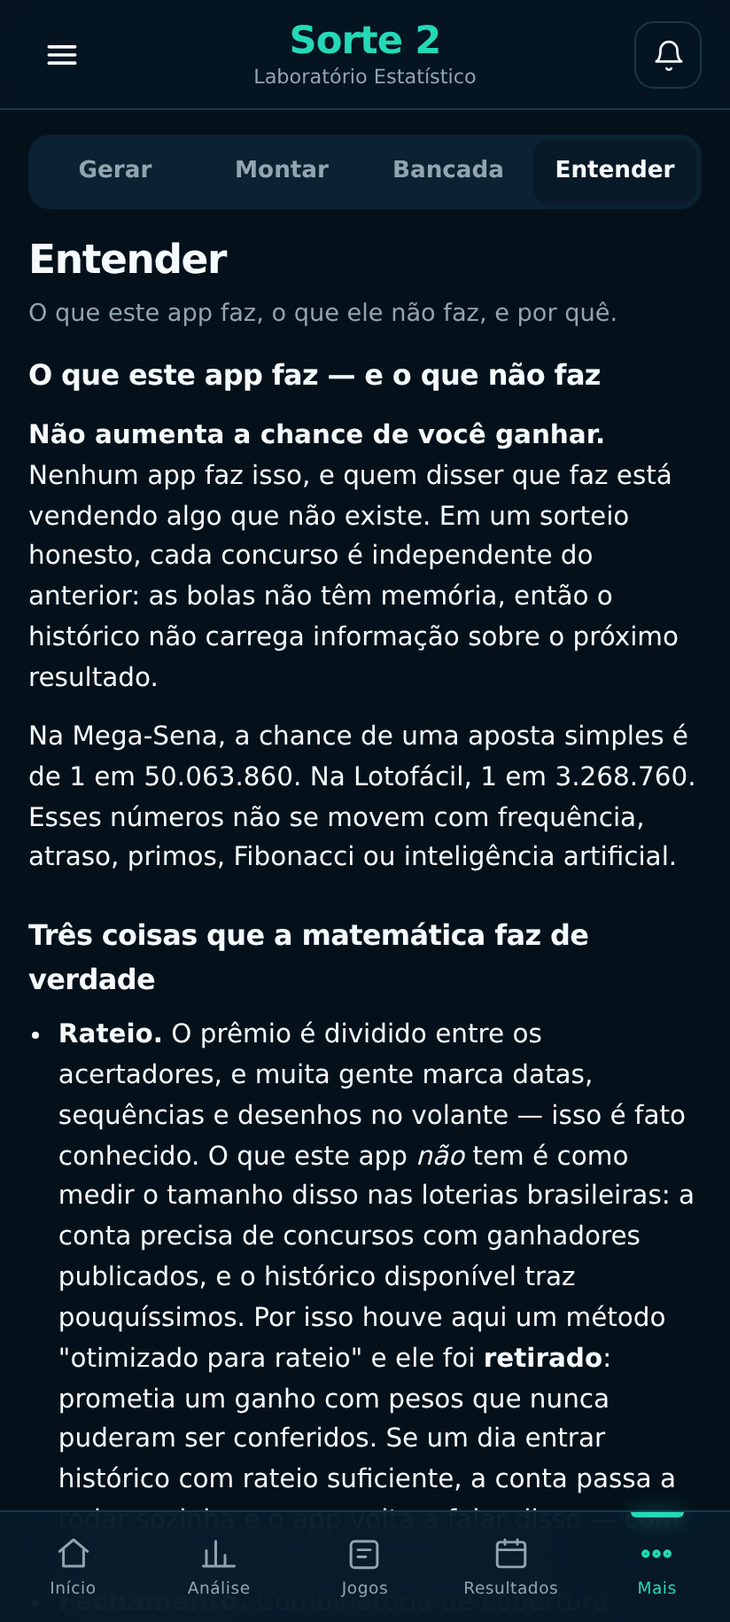
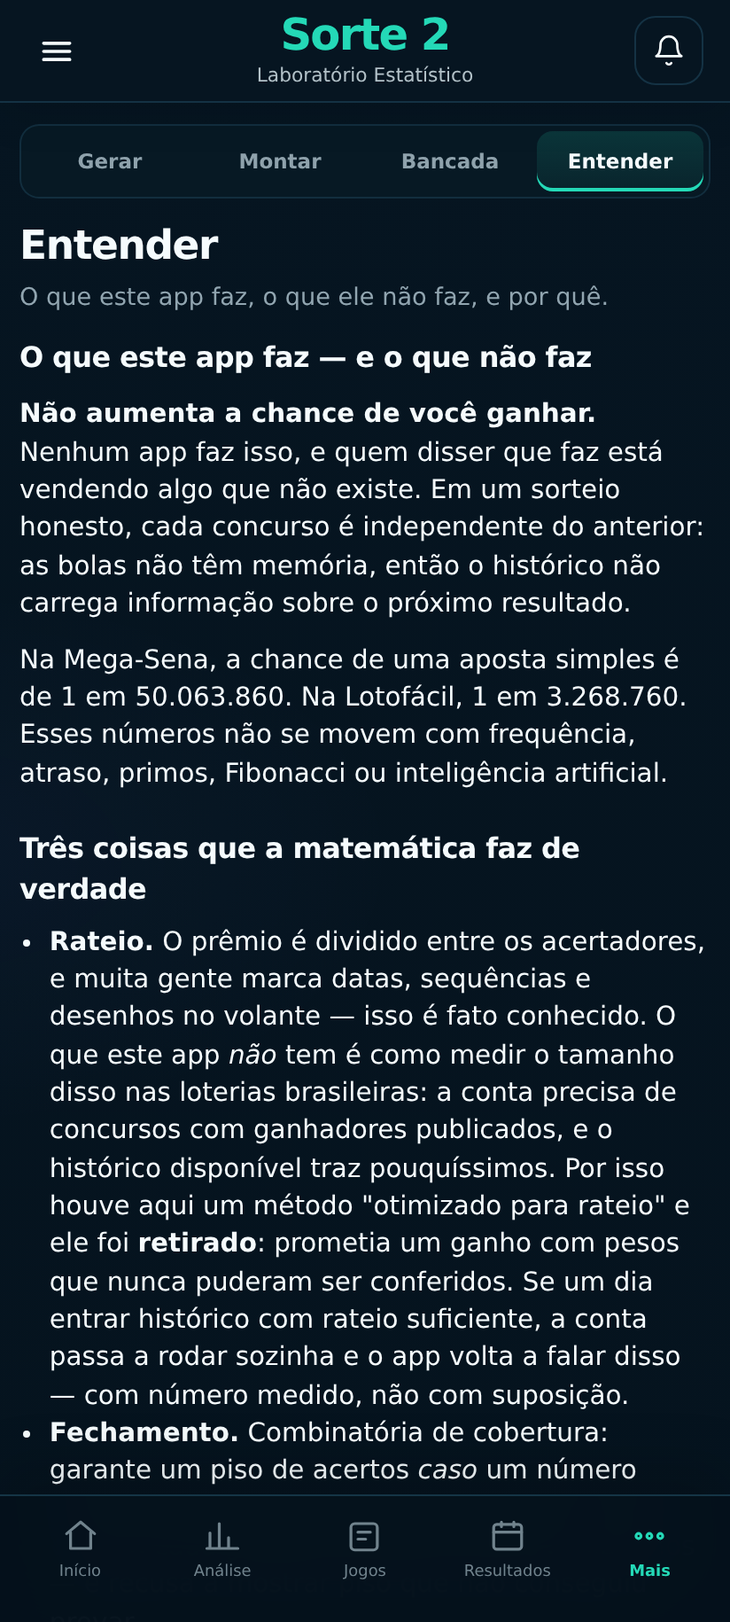
LotoLab Visual Final V3
Aplica o visual premium validado do LotoLab, preservando o motor existente. Validação pré-merge: 657 testes do motor e 77 testes de interface sem falhas.

Changed region(s): [[0.0303, 0.0, 0.9709, 0.9967]]

diff --git a/ui/sorte2-ui-final.css b/ui/sorte2-ui-final.css
@@ -1,0 +1,19 @@
+/* SORTE 2 — VISUAL FINAL V3 */
+:root{--s2-bg:#061521;--s2-bg-deep:#04111B;--s2-panel:#081A28;--s2-panel-2:#0B2232;--s2-panel-3:#0D293B;--s2-line:#17384A;--s2-line-hot:#20506A;--s2-text:#F5FBFD;--s2-muted:#91A5B0;--s2-teal:#24D9B7;--s2-teal-2:#10A98F;--s2-green:#4BD07A;--s2-amber:#F0B65D;--s2-red:#FF735F;--s2-blue:#5F7FFF;--s2-purple:#9D63FF;--s2-r:16px}
+html[data-tema="escuro"]{--fundo:var(--s2-bg)!important;--carta:var(--s2-panel)!important;--tinta:var(--s2-text)!important;--secundaria:var(--s2-muted)!important;--acaso:var(--s2-teal)!important;--acaso-fundo:var(--s2-teal-2)!important;--seu:var(--s2-amber)!important;--alerta:var(--s2-red)!important;--linha:var(--s2-line)!important;--trama:var(--s2-panel-2)!important;--ganhou:var(--s2-green)!important;--r:var(--s2-r)!important;--coluna:430px!important;--barra:72px!important;--bg:var(--s2-bg)!important;--panel:var(--s2-panel)!important;--panel2:var(--s2-panel-2)!important;--panel3:var(--s2-panel-3)!important;--line:var(--s2-line)!important;--text:var(--s2-text)!important;--muted:var(--s2-muted)!important;--teal:var(--s2-teal)!important;--teal2:var(--s2-teal-2)!important;--red:var(--s2-red)!important;--green2:var(--s2-green)!important}
+html{background:var(--s2-bg-deep)}html[data-tema="escuro"] body{min-height:100vh;background:radial-gradient(600px 300px at 102% -8%,rgba(36,217,183,.095),transparent 58%),radial-gradient(420px 240px at -10% 25%,rgba(95,127,255,.045),transparent 64%),linear-gradient(180deg,var(--s2-bg),var(--s2-bg-deep))!important;color:var(--s2-text);font-size:15px;line-height:1.45}
+html[data-tema="escuro"] header{padding:calc(var(--topo) + 8px) 12px 8px!important;background:rgba(6,21,33,.94)!important;border-bottom:1px solid rgba(23,56,74,.86)!important;backdrop-filter:blur(18px) saturate(145%);box-shadow:0 7px 24px rgba(0,0,0,.10)}.cabeca{grid-template-columns:42px 1fr 42px!important;gap:8px!important;max-width:430px!important}.menu,.sino{width:39px!important;height:39px!important;border-radius:12px!important;border-color:rgba(23,56,74,.86)!important}.marca-titulo b{font-size:1.55rem!important;font-weight:800!important;line-height:1!important;color:var(--s2-teal)!important;letter-spacing:-.035em!important}.marca-titulo span{margin-top:4px!important;color:#B2C1C8!important;font-size:.68rem!important}.sino b{top:-4px!important;right:-4px!important;background:#FF6F72!important;border:2px solid var(--s2-bg)!important}header .trilha{display:none!important}
+main{max-width:430px!important;padding:12px 11px calc(84px + var(--base))!important}.titulo{margin-bottom:11px!important}.titulo.com-volta{grid-template-columns:40px 1fr 40px!important;column-gap:3px!important;min-height:48px}.titulo.com-volta h1{font-size:1.20rem!important;font-weight:760!important}.titulo.com-volta p{font-size:.73rem!important;color:#B1C0C7!important;margin-top:2px!important}.voltar,.acao-tela{width:38px!important;height:38px!important;border-radius:11px!important;background:transparent!important}.voltar{border:0!important}.acao-tela{border:1px solid var(--s2-line)!important}
+nav{left:50%!important;right:auto!important;transform:translateX(-50%)!important;width:min(430px,100vw)!important;height:calc(72px + var(--base))!important;padding:7px 5px var(--base)!important;background:rgba(4,17,27,.965)!important;border-top:1px solid rgba(23,56,74,.92)!important;backdrop-filter:blur(18px) saturate(145%);box-shadow:0 -14px 34px rgba(0,0,0,.16)}nav button{padding:5px 0 6px!important;gap:4px!important;color:#71838D!important;font-size:.56rem!important;font-weight:540!important;letter-spacing:0!important}nav button svg{width:21px!important;height:21px!important;stroke-width:1.85!important}nav button[aria-current="page"]{color:var(--s2-teal)!important;font-weight:650!important}nav button[aria-current="page"]::before{display:none!important}
+.carta,.panel,.mini-card,.draw-card,.activity-item,.kpi,.ficha,.item{border-color:rgba(23,56,74,.92)!important}.carta,.panel,.kpi,.ficha{background:linear-gradient(180deg,rgba(10,32,48,.96),rgba(7,24,35,.98))!important;border-radius:var(--s2-r)!important;box-shadow:0 8px 28px rgba(0,0,0,.10)!important}.carta{padding:14px!important;margin-bottom:10px!important}.panel{padding:14px!important;margin-bottom:11px!important}.panel-title{margin-bottom:10px!important}.panel-title h3{font-size:.91rem!important;font-weight:700!important}.panel-title span{font-size:.68rem!important;color:var(--s2-muted)!important}
+.hero-card{min-height:136px!important;padding:17px!important;grid-template-columns:minmax(0,1fr) 116px!important;gap:10px!important;margin-bottom:12px!important;position:relative;overflow:hidden;background:radial-gradient(180px 150px at 84% 46%,rgba(36,217,183,.11),transparent 68%),linear-gradient(145deg,#081A28 0%,#071824 56%,#08202A 100%)!important;border:1px solid #17465A!important;border-radius:17px!important;box-shadow:0 10px 34px rgba(0,0,0,.13)!important}.hero-card h2{font-size:1.08rem!important;font-weight:780!important;color:var(--s2-text)!important}.hero-card p{margin:6px 0 15px!important;font-size:.71rem!important;color:#B1C1C8!important}.hero-card .primary-btn,.primary-btn{min-height:37px!important;padding:0 16px!important;border-radius:9px!important;border:1px solid rgba(36,217,183,.5)!important;background:linear-gradient(180deg,#0D8F7B,#08715F)!important;color:#F4FFFC!important;font-size:.69rem!important;font-weight:800!important}.brain{height:112px!important;background:radial-gradient(circle at 50% 49%,rgba(36,217,183,.12),transparent 60%),url("brain-network.svg") center/104px 104px no-repeat!important;opacity:.98;filter:drop-shadow(0 0 12px rgba(36,217,183,.17))}.brain::before,.brain::after{display:none!important}
+.quick-grid{gap:9px!important;margin-bottom:12px!important}.quick{min-height:112px!important;padding:12px 10px!important;border-radius:16px!important;background:linear-gradient(180deg,#0B2232,#071925)!important;box-shadow:0 7px 25px rgba(0,0,0,.08)}.quick-icon{width:39px!important;height:39px!important;border-radius:13px!important}.quick-icon svg{width:21px!important;height:21px!important}.quick b{font-size:.78rem!important;font-weight:700!important}.quick small{font-size:.59rem!important}.quick:nth-child(1){border-color:rgba(36,217,183,.32)!important}.quick:nth-child(2){border-color:rgba(95,127,255,.34)!important}.quick:nth-child(3){border-color:rgba(157,99,255,.34)!important}.atalhos{gap:9px!important;margin-top:10px!important}.atalho{min-height:108px!important;border-radius:16px!important;background:linear-gradient(180deg,#0B2232,#071925)!important}
+.kpi-grid,.resumo{gap:9px!important}.mini-card,.resumo .kpi{min-height:82px;padding:12px 9px!important;border-radius:13px!important;background:linear-gradient(180deg,#0A2232,#071A27)!important;box-shadow:none!important}.mini-card strong,.resumo .kpi .val{font-size:1.35rem!important;font-weight:690!important;color:var(--s2-text);line-height:1.15}.mini-card strong.teal,.resumo .kpi:nth-child(3) .val{color:var(--s2-teal)!important}.mini-card strong.red{color:var(--s2-red)!important}.mini-card small,.resumo .kpi .sub{color:#A4B5BD!important;font-size:.60rem!important}
+.segmento,.tabs{border:1px solid rgba(23,56,74,.7)!important;background:#071924!important;border-radius:11px!important;padding:3px!important;gap:2px!important;margin-bottom:11px!important}.segmento button,.tabs button{min-height:34px;border:0!important;background:transparent!important;color:#8FA2AC!important;border-radius:9px!important;padding:7px 6px!important;font-size:.72rem!important;font-weight:570!important}.segmento button[aria-selected="true"],.tabs button.active{color:var(--s2-text)!important;background:linear-gradient(180deg,rgba(36,217,183,.15),rgba(36,217,183,.055))!important;box-shadow:inset 0 -2px 0 var(--s2-teal)!important}
+.pq-hero{padding:15px!important;gap:12px!important;border-radius:16px!important;background:radial-gradient(180px 120px at 88% 25%,rgba(36,217,183,.10),transparent 70%),linear-gradient(145deg,#081A28,#071A27)!important;border-color:#17465A!important}.pq-hero h2{font-size:1.16rem!important;font-weight:740!important}.pq-hero p{font-size:.72rem!important;color:#A9BAC1!important}.pq-selo{padding:4px 8px!important;font-size:.52rem!important;color:var(--s2-teal)!important;background:rgba(36,217,183,.08)!important;border:1px solid rgba(36,217,183,.22)}.pq-orbe{width:58px!important;height:58px!important;background:radial-gradient(circle at 35% 30%,#7EF7E2,var(--s2-teal) 35%,#0A7165 100%)!important}.geracao-linha{gap:13px!important;align-items:center!important}.geracao-linha>svg{width:112px!important;height:112px!important;flex:0 0 112px}.funil{gap:8px!important}.funil div{min-height:32px;padding-bottom:6px;border-bottom:1px solid rgba(23,56,74,.72)}.funil div:last-child{border-bottom:0}.funil span{font-size:.68rem!important;color:#A2B3BB!important}.funil b{font-size:1.04rem!important}.funil div:last-child b{color:var(--s2-red)!important}.metric,.kpi{border-radius:13px!important;background:linear-gradient(180deg,#0A2030,#081B29)!important;box-shadow:none!important}.metric{padding:11px!important}.metric span,.kpi .rot{font-size:.57rem!important;color:#A1B2BA!important}.metric b,.kpi .val{font-size:1.36rem!important;color:var(--s2-teal)!important}.metric small,.kpi .sub{font-size:.57rem!important;color:#9BACB4!important}.info-box,.nota{border-radius:11px!important;background:#092333!important;border:1px solid #174057!important;color:#A7B8C0!important}.nota{border-left:3px solid var(--s2-teal)!important}.nota.atencao{border-left-color:var(--s2-red)!important}
+.chart-card,.pq-grafico{background:linear-gradient(180deg,#081A28,#071925)!important;border-radius:16px!important}.grid,.grade-grafico{stroke:#123143!important}.baseline,.linha-acaso{stroke:#899CA6!important;stroke-dasharray:5 5!important}.curve,.linha-evolucao{stroke:var(--s2-teal)!important}.dot,.ponto-evolucao{fill:var(--s2-teal)!important}.gen-row,.linha-geracao{border-radius:11px!important;border-color:rgba(23,56,74,.92)!important;background:#081B29!important}.good-banner{border-color:rgba(36,217,183,.34)!important;background:rgba(0,137,91,.18)!important;color:#7BE8D0!important}
+.summary-row{grid-template-columns:1.15fr .85fr .85fr .85fr!important;gap:7px!important}.sum-card{border-radius:11px!important;background:#0A2232!important;border-color:rgba(23,56,74,.9)!important}.big-action{border-radius:13px!important;background:linear-gradient(180deg,#0D8C78,#086453)!important;border-color:rgba(36,217,183,.28)!important}.conferencias .linha-conf,.linha-conf{border-bottom-color:rgba(23,56,74,.75)!important}
+.mode-tabs{gap:6px!important;margin-bottom:10px!important}.mode-tabs button{min-height:36px;border-radius:10px!important;background:#081B29!important;border-color:rgba(23,56,74,.92)!important;color:#90A3AD!important;font-size:.68rem!important}.mode-tabs .active,.mode-tabs button[aria-pressed="true"]{color:var(--s2-text)!important;border-color:var(--s2-teal)!important;background:rgba(36,217,183,.095)!important}.bolas{gap:6px!important;margin-top:9px!important}.bola{width:31px!important;height:31px!important;border:0!important;color:#F3FFF5!important;background:linear-gradient(180deg,#4BB658,#268F3E)!important;font-size:.70rem!important;font-weight:780!important}.selo-ganho{border-radius:99px!important;padding:3px 8px!important;font-size:.57rem!important}
+.folha .corpo{width:min(430px,100vw)!important;max-height:min(92vh,900px)!important;background:var(--s2-bg)!important;border-color:var(--s2-line)!important}#corpo-avisos h2{color:var(--s2-text)!important;font-size:1.22rem!important;text-transform:none!important;letter-spacing:-.02em!important;font-weight:760!important}.chips{gap:4px!important}.chip{min-height:35px;padding:7px 10px!important;border-radius:9px!important;border-color:transparent!important;background:transparent!important;color:#95A7B0!important;font-size:.66rem!important}.chip[aria-pressed="true"]{color:var(--s2-text)!important;border:1px solid var(--s2-teal)!important;background:rgba(36,217,183,.095)!important}.dia-rotulo{background:var(--s2-bg)!important;color:#C9D4D8!important}.lista .item,.item{border:1px solid rgba(23,56,74,.92)!important;border-radius:13px!important;background:linear-gradient(180deg,#081B29,#071823)!important;margin-bottom:7px!important}.ic-aviso{width:40px!important;height:40px!important;border-radius:12px!important}.item .txt b{font-size:.73rem!important}.item .txt span{font-size:.63rem!important;color:#A0B1B8!important}.item .quando{font-size:.57rem!important}.ponto-lido.novo{background:var(--s2-teal)!important}
+select,input[type=number],input[type=text],input[type=date]{min-height:42px;padding:10px 11px!important;color:var(--s2-text);background:#071A27!important;border-color:rgba(23,56,74,.92)!important;border-radius:11px!important}.ajustes summary{background:#081B29!important;border-color:rgba(23,56,74,.88)!important}.gaveta .corpo{background:linear-gradient(180deg,#071824,#05131D)!important;border-right:1px solid var(--s2-line)!important}.gaveta-mods button{background:#081B29!important;border-color:rgba(23,56,74,.85)!important}.gaveta-mods button[aria-pressed="true"]{color:var(--s2-text)!important;background:rgba(36,217,183,.09)!important;border-color:rgba(36,217,183,.40)!important}
+@media(max-width:390px){.hero-card{grid-template-columns:minmax(0,1fr) 96px!important;padding:15px!important}.brain{height:96px!important;background-size:92px 92px!important}.quick-grid{gap:7px!important}.quick{min-height:104px!important;padding:11px 8px!important}.quick b{font-size:.72rem!important}.quick small{font-size:.55rem!important}.geracao-linha>svg{width:100px!important;height:100px!important;flex-basis:100px}.summary-row{gap:5px!important}.sum-card{padding:9px 5px!important}}@media(max-width:360px){.marca-titulo b{font-size:1.40rem!important}.hero-card h2{font-size:1rem!important}.hero-card p{font-size:.66rem!important}.mini-card strong{font-size:1.20rem!important}}

diff --git a/www/ui/sorte2-ui-final.css b/www/ui/sorte2-ui-final.css
@@ -1,0 +1,19 @@
+/* SORTE 2 — VISUAL FINAL V3 */
+:root{--s2-bg:#061521;--s2-bg-deep:#04111B;--s2-panel:#081A28;--s2-panel-2:#0B2232;--s2-panel-3:#0D293B;--s2-line:#17384A;--s2-line-hot:#20506A;--s2-text:#F5FBFD;--s2-muted:#91A5B0;--s2-teal:#24D9B7;--s2-teal-2:#10A98F;--s2-green:#4BD07A;--s2-amber:#F0B65D;--s2-red:#FF735F;--s2-blue:#5F7FFF;--s2-purple:#9D63FF;--s2-r:16px}
+html[data-tema="escuro"]{--fundo:var(--s2-bg)!important;--carta:var(--s2-panel)!important;--tinta:var(--s2-text)!important;--secundaria:var(--s2-muted)!important;--acaso:var(--s2-teal)!important;--acaso-fundo:var(--s2-teal-2)!important;--seu:var(--s2-amber)!important;--alerta:var(--s2-red)!important;--linha:var(--s2-line)!important;--trama:var(--s2-panel-2)!important;--ganhou:var(--s2-green)!important;--r:var(--s2-r)!important;--coluna:430px!important;--barra:72px!important;--bg:var(--s2-bg)!important;--panel:var(--s2-panel)!important;--panel2:var(--s2-panel-2)!important;--panel3:var(--s2-panel-3)!important;--line:var(--s2-line)!important;--text:var(--s2-text)!important;--muted:var(--s2-muted)!important;--teal:var(--s2-teal)!important;--teal2:var(--s2-teal-2)!important;--red:var(--s2-red)!important;--green2:var(--s2-green)!important}
+html{background:var(--s2-bg-deep)}html[data-tema="escuro"] body{min-height:100vh;background:radial-gradient(600px 300px at 102% -8%,rgba(36,217,183,.095),transparent 58%),radial-gradient(420px 240px at -10% 25%,rgba(95,127,255,.045),transparent 64%),linear-gradient(180deg,var(--s2-bg),var(--s2-bg-deep))!important;color:var(--s2-text);font-size:15px;line-height:1.45}
+html[data-tema="escuro"] header{padding:calc(var(--topo) + 8px) 12px 8px!important;background:rgba(6,21,33,.94)!important;border-bottom:1px solid rgba(23,56,74,.86)!important;backdrop-filter:blur(18px) saturate(145%);box-shadow:0 7px 24px rgba(0,0,0,.10)}.cabeca{grid-template-columns:42px 1fr 42px!important;gap:8px!important;max-width:430px!important}.menu,.sino{width:39px!important;height:39px!important;border-radius:12px!important;border-color:rgba(23,56,74,.86)!important}.marca-titulo b{font-size:1.55rem!important;font-weight:800!important;line-height:1!important;color:var(--s2-teal)!important;letter-spacing:-.035em!important}.marca-titulo span{margin-top:4px!important;color:#B2C1C8!important;font-size:.68rem!important}.sino b{top:-4px!important;right:-4px!important;background:#FF6F72!important;border:2px solid var(--s2-bg)!important}header .trilha{display:none!important}
+main{max-width:430px!important;padding:12px 11px calc(84px + var(--base))!important}.titulo{margin-bottom:11px!important}.titulo.com-volta{grid-template-columns:40px 1fr 40px!important;column-gap:3px!important;min-height:48px}.titulo.com-volta h1{font-size:1.20rem!important;font-weight:760!important}.titulo.com-volta p{font-size:.73rem!important;color:#B1C0C7!important;margin-top:2px!important}.voltar,.acao-tela{width:38px!important;height:38px!important;border-radius:11px!important;background:transparent!important}.voltar{border:0!important}.acao-tela{border:1px solid var(--s2-line)!important}
+nav{left:50%!important;right:auto!important;transform:translateX(-50%)!important;width:min(430px,100vw)!important;height:calc(72px + var(--base))!important;padding:7px 5px var(--base)!important;background:rgba(4,17,27,.965)!important;border-top:1px solid rgba(23,56,74,.92)!important;backdrop-filter:blur(18px) saturate(145%);box-shadow:0 -14px 34px rgba(0,0,0,.16)}nav button{padding:5px 0 6px!important;gap:4px!important;color:#71838D!important;font-size:.56rem!important;font-weight:540!important;letter-spacing:0!important}nav button svg{width:21px!important;height:21px!important;stroke-width:1.85!important}nav button[aria-current="page"]{color:var(--s2-teal)!important;font-weight:650!important}nav button[aria-current="page"]::before{display:none!important}
+.carta,.panel,.mini-card,.draw-card,.activity-item,.kpi,.ficha,.item{border-color:rgba(23,56,74,.92)!important}.carta,.panel,.kpi,.ficha{background:linear-gradient(180deg,rgba(10,32,48,.96),rgba(7,24,35,.98))!important;border-radius:var(--s2-r)!important;box-shadow:0 8px 28px rgba(0,0,0,.10)!important}.carta{padding:14px!important;margin-bottom:10px!important}.panel{padding:14px!important;margin-bottom:11px!important}.panel-title{margin-bottom:10px!important}.panel-title h3{font-size:.91rem!important;font-weight:700!important}.panel-title span{font-size:.68rem!important;color:var(--s2-muted)!important}
+.hero-card{min-height:136px!important;padding:17px!important;grid-template-columns:minmax(0,1fr) 116px!important;gap:10px!important;margin-bottom:12px!important;position:relative;overflow:hidden;background:radial-gradient(180px 150px at 84% 46%,rgba(36,217,183,.11),transparent 68%),linear-gradient(145deg,#081A28 0%,#071824 56%,#08202A 100%)!important;border:1px solid #17465A!important;border-radius:17px!important;box-shadow:0 10px 34px rgba(0,0,0,.13)!important}.hero-card h2{font-size:1.08rem!important;font-weight:780!important;color:var(--s2-text)!important}.hero-card p{margin:6px 0 15px!important;font-size:.71rem!important;color:#B1C1C8!important}.hero-card .primary-btn,.primary-btn{min-height:37px!important;padding:0 16px!important;border-radius:9px!important;border:1px solid rgba(36,217,183,.5)!important;background:linear-gradient(180deg,#0D8F7B,#08715F)!important;color:#F4FFFC!important;font-size:.69rem!important;font-weight:800!important}.brain{height:112px!important;background:radial-gradient(circle at 50% 49%,rgba(36,217,183,.12),transparent 60%),url("brain-network.svg") center/104px 104px no-repeat!important;opacity:.98;filter:drop-shadow(0 0 12px rgba(36,217,183,.17))}.brain::before,.brain::after{display:none!important}
+.quick-grid{gap:9px!important;margin-bottom:12px!important}.quick{min-height:112px!important;padding:12px 10px!important;border-radius:16px!important;background:linear-gradient(180deg,#0B2232,#071925)!important;box-shadow:0 7px 25px rgba(0,0,0,.08)}.quick-icon{width:39px!important;height:39px!important;border-radius:13px!important}.quick-icon svg{width:21px!important;height:21px!important}.quick b{font-size:.78rem!important;font-weight:700!important}.quick small{font-size:.59rem!important}.quick:nth-child(1){border-color:rgba(36,217,183,.32)!important}.quick:nth-child(2){border-color:rgba(95,127,255,.34)!important}.quick:nth-child(3){border-color:rgba(157,99,255,.34)!important}.atalhos{gap:9px!important;margin-top:10px!important}.atalho{min-height:108px!important;border-radius:16px!important;background:linear-gradient(180deg,#0B2232,#071925)!important}
+.kpi-grid,.resumo{gap:9px!important}.mini-card,.resumo .kpi{min-height:82px;padding:12px 9px!important;border-radius:13px!important;background:linear-gradient(180deg,#0A2232,#071A27)!important;box-shadow:none!important}.mini-card strong,.resumo .kpi .val{font-size:1.35rem!important;font-weight:690!important;color:var(--s2-text);line-height:1.15}.mini-card strong.teal,.resumo .kpi:nth-child(3) .val{color:var(--s2-teal)!important}.mini-card strong.red{color:var(--s2-red)!important}.mini-card small,.resumo .kpi .sub{color:#A4B5BD!important;font-size:.60rem!important}
+.segmento,.tabs{border:1px solid rgba(23,56,74,.7)!important;background:#071924!important;border-radius:11px!important;padding:3px!important;gap:2px!important;margin-bottom:11px!important}.segmento button,.tabs button{min-height:34px;border:0!important;background:transparent!important;color:#8FA2AC!important;border-radius:9px!important;padding:7px 6px!important;font-size:.72rem!important;font-weight:570!important}.segmento button[aria-selected="true"],.tabs button.active{color:var(--s2-text)!important;background:linear-gradient(180deg,rgba(36,217,183,.15),rgba(36,217,183,.055))!important;box-shadow:inset 0 -2px 0 var(--s2-teal)!important}
+.pq-hero{padding:15px!important;gap:12px!important;border-radius:16px!important;background:radial-gradient(180px 120px at 88% 25%,rgba(36,217,183,.10),transparent 70%),linear-gradient(145deg,#081A28,#071A27)!important;border-color:#17465A!important}.pq-hero h2{font-size:1.16rem!important;font-weight:740!important}.pq-hero p{font-size:.72rem!important;color:#A9BAC1!important}.pq-selo{padding:4px 8px!important;font-size:.52rem!important;color:var(--s2-teal)!important;background:rgba(36,217,183,.08)!important;border:1px solid rgba(36,217,183,.22)}.pq-orbe{width:58px!important;height:58px!important;background:radial-gradient(circle at 35% 30%,#7EF7E2,var(--s2-teal) 35%,#0A7165 100%)!important}.geracao-linha{gap:13px!important;align-items:center!important}.geracao-linha>svg{width:112px!important;height:112px!important;flex:0 0 112px}.funil{gap:8px!important}.funil div{min-height:32px;padding-bottom:6px;border-bottom:1px solid rgba(23,56,74,.72)}.funil div:last-child{border-bottom:0}.funil span{font-size:.68rem!important;color:#A2B3BB!important}.funil b{font-size:1.04rem!important}.funil div:last-child b{color:var(--s2-red)!important}.metric,.kpi{border-radius:13px!important;background:linear-gradient(180deg,#0A2030,#081B29)!important;box-shadow:none!important}.metric{padding:11px!important}.metric span,.kpi .rot{font-size:.57rem!important;color:#A1B2BA!important}.metric b,.kpi .val{font-size:1.36rem!important;color:var(--s2-teal)!important}.metric small,.kpi .sub{font-size:.57rem!important;color:#9BACB4!important}.info-box,.nota{border-radius:11px!important;background:#092333!important;border:1px solid #174057!important;color:#A7B8C0!important}.nota{border-left:3px solid var(--s2-teal)!important}.nota.atencao{border-left-color:var(--s2-red)!important}
+.chart-card,.pq-grafico{background:linear-gradient(180deg,#081A28,#071925)!important;border-radius:16px!important}.grid,.grade-grafico{stroke:#123143!important}.baseline,.linha-acaso{stroke:#899CA6!important;stroke-dasharray:5 5!important}.curve,.linha-evolucao{stroke:var(--s2-teal)!important}.dot,.ponto-evolucao{fill:var(--s2-teal)!important}.gen-row,.linha-geracao{border-radius:11px!important;border-color:rgba(23,56,74,.92)!important;background:#081B29!important}.good-banner{border-color:rgba(36,217,183,.34)!important;background:rgba(0,137,91,.18)!important;color:#7BE8D0!important}
+.summary-row{grid-template-columns:1.15fr .85fr .85fr .85fr!important;gap:7px!important}.sum-card{border-radius:11px!important;background:#0A2232!important;border-color:rgba(23,56,74,.9)!important}.big-action{border-radius:13px!important;background:linear-gradient(180deg,#0D8C78,#086453)!important;border-color:rgba(36,217,183,.28)!important}.conferencias .linha-conf,.linha-conf{border-bottom-color:rgba(23,56,74,.75)!important}
+.mode-tabs{gap:6px!important;margin-bottom:10px!important}.mode-tabs button{min-height:36px;border-radius:10px!important;background:#081B29!important;border-color:rgba(23,56,74,.92)!important;color:#90A3AD!important;font-size:.68rem!important}.mode-tabs .active,.mode-tabs button[aria-pressed="true"]{color:var(--s2-text)!important;border-color:var(--s2-teal)!important;background:rgba(36,217,183,.095)!important}.bolas{gap:6px!important;margin-top:9px!important}.bola{width:31px!important;height:31px!important;border:0!important;color:#F3FFF5!important;background:linear-gradient(180deg,#4BB658,#268F3E)!important;font-size:.70rem!important;font-weight:780!important}.selo-ganho{border-radius:99px!important;padding:3px 8px!important;font-size:.57rem!important}
+.folha .corpo{width:min(430px,100vw)!important;max-height:min(92vh,900px)!important;background:var(--s2-bg)!important;border-color:var(--s2-line)!important}#corpo-avisos h2{color:var(--s2-text)!important;font-size:1.22rem!important;text-transform:none!important;letter-spacing:-.02em!important;font-weight:760!important}.chips{gap:4px!important}.chip{min-height:35px;padding:7px 10px!important;border-radius:9px!important;border-color:transparent!important;background:transparent!important;color:#95A7B0!important;font-size:.66rem!important}.chip[aria-pressed="true"]{color:var(--s2-text)!important;border:1px solid var(--s2-teal)!important;background:rgba(36,217,183,.095)!important}.dia-rotulo{background:var(--s2-bg)!important;color:#C9D4D8!important}.lista .item,.item{border:1px solid rgba(23,56,74,.92)!important;border-radius:13px!important;background:linear-gradient(180deg,#081B29,#071823)!important;margin-bottom:7px!important}.ic-aviso{width:40px!important;height:40px!important;border-radius:12px!important}.item .txt b{font-size:.73rem!important}.item .txt span{font-size:.63rem!important;color:#A0B1B8!important}.item .quando{font-size:.57rem!important}.ponto-lido.novo{background:var(--s2-teal)!important}
+select,input[type=number],input[type=text],input[type=date]{min-height:42px;padding:10px 11px!important;color:var(--s2-text);background:#071A27!important;border-color:rgba(23,56,74,.92)!important;border-radius:11px!important}.ajustes summary{background:#081B29!important;border-color:rgba(23,56,74,.88)!important}.gaveta .corpo{background:linear-gradient(180deg,#071824,#05131D)!important;border-right:1px solid var(--s2-line)!important}.gaveta-mods button{background:#081B29!important;border-color:rgba(23,56,74,.85)!important}.gaveta-mods button[aria-pressed="true"]{color:var(--s2-text)!important;background:rgba(36,217,183,.09)!important;border-color:rgba(36,217,183,.40)!important}
+@media(max-width:390px){.hero-card{grid-template-columns:minmax(0,1fr) 96px!important;padding:15px!important}.brain{height:96px!important;background-size:92px 92px!important}.quick-grid{gap:7px!important}.quick{min-height:104px!important;padding:11px 8px!important}.quick b{font-size:.72rem!important}.quick small{font-size:.55rem!important}.geracao-linha>svg{width:100px!important;height:100px!important;flex-basis:100px}.summary-row{gap:5px!important}.sum-card{padding:9px 5px!important}}@media(max-width:360px){.marca-titulo b{font-size:1.40rem!important}.hero-card h2{font-size:1rem!important}.hero-card p{font-size:.66rem!important}.mini-card strong{font-size:1.20rem!important}}

diff --git a/index.html b/index.html
@@ -1,16 +1,16 @@
 <!DOCTYPE html>
-<html lang="pt-BR" data-tema="claro">
+<html lang="pt-BR" data-tema="escuro">
 <head>
 <meta charset="utf-8">
 <meta name="viewport" content="width=device-width, initial-scale=1, viewport-fit=cover">
-<meta name="theme-color" content="#061522">
+<meta name="theme-color" content="#061521">
 <meta name="description" content="Gerador e conferidor de jogos das loterias brasileiras, com comparação honesta contra o acaso.">
 <link rel="manifest" href="manifest.webmanifest">
 <link rel="icon" href="icone.svg" type="image/svg+xml">
 <!-- apple-touch-icon não aceita SVG: o iOS ignora e fica sem ícone na tela de
      início. Aqui vai o PNG, gerado do mesmo icone.svg. -->
 <link rel="apple-touch-icon" href="icone-192.png">
-<title>LotoLab — jogos e conferência</title>
+<title>LotoLab — Laboratório Estatístico</title>
 <style>
 /* ------------------------------------------------------------------
    Direção visual: ficha de conferência, não cassino.
@@ -928,6 +928,7 @@ td{padding:6px 7px;border-bottom:1px solid var(--trama)}
   @keyframes sobe{from{opacity:0;transform:translateY(7px)}to{opacity:1;transform:none}}
 }
 </style>
+<link rel="stylesheet" href="ui/sorte2-ui-final.css?v=3.0.0" data-sorte2-visual-final="3.0.0">
 </head>
 <body>
 <header>

diff --git a/www/index.html b/www/index.html
@@ -1,16 +1,16 @@
 <!DOCTYPE html>
-<html lang="pt-BR" data-tema="claro">
+<html lang="pt-BR" data-tema="escuro">
 <head>
 <meta charset="utf-8">
 <meta name="viewport" content="width=device-width, initial-scale=1, viewport-fit=cover">
-<meta name="theme-color" content="#061522">
+<meta name="theme-color" content="#061521">
 <meta name="description" content="Gerador e conferidor de jogos das loterias brasileiras, com comparação honesta contra o acaso.">
 <link rel="manifest" href="manifest.webmanifest">
 <link rel="icon" href="icone.svg" type="image/svg+xml">
 <!-- apple-touch-icon não aceita SVG: o iOS ignora e fica sem ícone na tela de
      início. Aqui vai o PNG, gerado do mesmo icone.svg. -->
 <link rel="apple-touch-icon" href="icone-192.png">
-<title>LotoLab — jogos e conferência</title>
+<title>LotoLab — Laboratório Estatístico</title>
 <style>
 /* ------------------------------------------------------------------
    Direção visual: ficha de conferência, não cassino.
@@ -928,6 +928,7 @@ td{padding:6px 7px;border-bottom:1px solid var(--trama)}
   @keyframes sobe{from{opacity:0;transform:translateY(7px)}to{opacity:1;transform:none}}
 }
 </style>
+<link rel="stylesheet" href="ui/sorte2-ui-final.css?v=3.0.0" data-sorte2-visual-final="3.0.0">
 </head>
 <body>
 <header>

diff --git a/ui/sorte2-ui-final.js b/ui/sorte2-ui-final.js
@@ -1,0 +1,2 @@
+/* Sorte 2 Visual Final V3 — presentation hooks only */
+(()=>{"use strict";let scheduled=false;const apply=()=>{scheduled=false;document.body?.classList.add("sorte2-visual-final-v3");const theme=document.querySelector('meta[name="theme-color"]');if(theme&&theme.getAttribute("content")!=="#061521")theme.setAttribute("content","#061521");const title=document.querySelector(".marca-titulo b");const sub=document.querySelector(".marca-titulo span");if(title&&title.textContent!=="Sorte 2")title.textContent="Sorte 2";if(sub&&sub.textContent!=="Laboratório Estatístico")sub.textContent="Laboratório Estatístico";const h=document.querySelector("#corpo-avisos h2");if(h&&h.textContent.trim().toLowerCase()==="atividades"&&h.textContent!=="Atividades")h.textContent="Atividades"};const schedule=()=>{if(scheduled)return;scheduled=true;requestAnimationFrame(apply)};if(document.readyState==="loading")document.addEventListener("DOMContentLoaded",apply,{once:true});else apply();window.addEventListener("load",()=>{if(!document.body)return;new MutationObserver(schedule).observe(document.body,{childList:true,subtree:true})},{once:true})})();

diff --git a/www/ui/sorte2-ui-final.js b/www/ui/sorte2-ui-final.js
@@ -1,0 +1,2 @@
+/* Sorte 2 Visual Final V3 — presentation hooks only */
+(()=>{"use strict";let scheduled=false;const apply=()=>{scheduled=false;document.body?.classList.add("sorte2-visual-final-v3");const theme=document.querySelector('meta[name="theme-color"]');if(theme&&theme.getAttribute("content")!=="#061521")theme.setAttribute("content","#061521");const title=document.querySelector(".marca-titulo b");const sub=document.querySelector(".marca-titulo span");if(title&&title.textContent!=="Sorte 2")title.textContent="Sorte 2";if(sub&&sub.textContent!=="Laboratório Estatístico")sub.textContent="Laboratório Estatístico";const h=document.querySelector("#corpo-avisos h2");if(h&&h.textContent.trim().toLowerCase()==="atividades"&&h.textContent!=="Atividades")h.textContent="Atividades"};const schedule=()=>{if(scheduled)return;scheduled=true;requestAnimationFrame(apply)};if(document.readyState==="loading")document.addEventListener("DOMContentLoaded",apply,{once:true});else apply();window.addEventListener("load",()=>{if(!document.body)return;new MutationObserver(schedule).observe(document.body,{childList:true,subtree:true})},{once:true})})();

diff --git a/sw.js b/sw.js
@@ -22,11 +22,11 @@
 /* 5: trevo novo nos ícones. Sem subir esta versão, quem já tem o app instalado
    continuaria vendo o ícone antigo para sempre — os PNGs são servidos pelo
    cache primeiro, e cache primeiro nunca vai conferir se mudou. */
-const VERSAO = "5";
+const VERSAO = "6";
 const CACHE = `lotolab-v${VERSAO}`;
 
 //: A casca mínima para o app abrir offline.
-const CASCA = ["./", "./index.html", "./manifest.webmanifest", "./icone.svg"];
+const CASCA = ["./", "./index.html", "./manifest.webmanifest", "./icone.svg", "./ui/sorte2-ui-final.css", "./ui/brain-network.svg"];
 
 //: Recursos que praticamente não mudam. Ícone novo sai com versão nova.
 const IMUTAVEIS = /\.(png|svg|webmanifest)$/i;

diff --git a/www/sw.js b/www/sw.js
@@ -22,11 +22,11 @@
 /* 5: trevo novo nos ícones. Sem subir esta versão, quem já tem o app instalado
    continuaria vendo o ícone antigo para sempre — os PNGs são servidos pelo
    cache primeiro, e cache primeiro nunca vai conferir se mudou. */
-const VERSAO = "5";
+const VERSAO = "6";
 const CACHE = `lotolab-v${VERSAO}`;
 
 //: A casca mínima para o app abrir offline.
-const CASCA = ["./", "./index.html", "./manifest.webmanifest", "./icone.svg"];
+const CASCA = ["./", "./index.html", "./manifest.webmanifest", "./icone.svg", "./ui/sorte2-ui-final.css", "./ui/brain-network.svg"];
 
 //: Recursos que praticamente não mudam. Ícone novo sai com versão nova.
 const IMUTAVEIS = /\.(png|svg|webmanifest)$/i;
